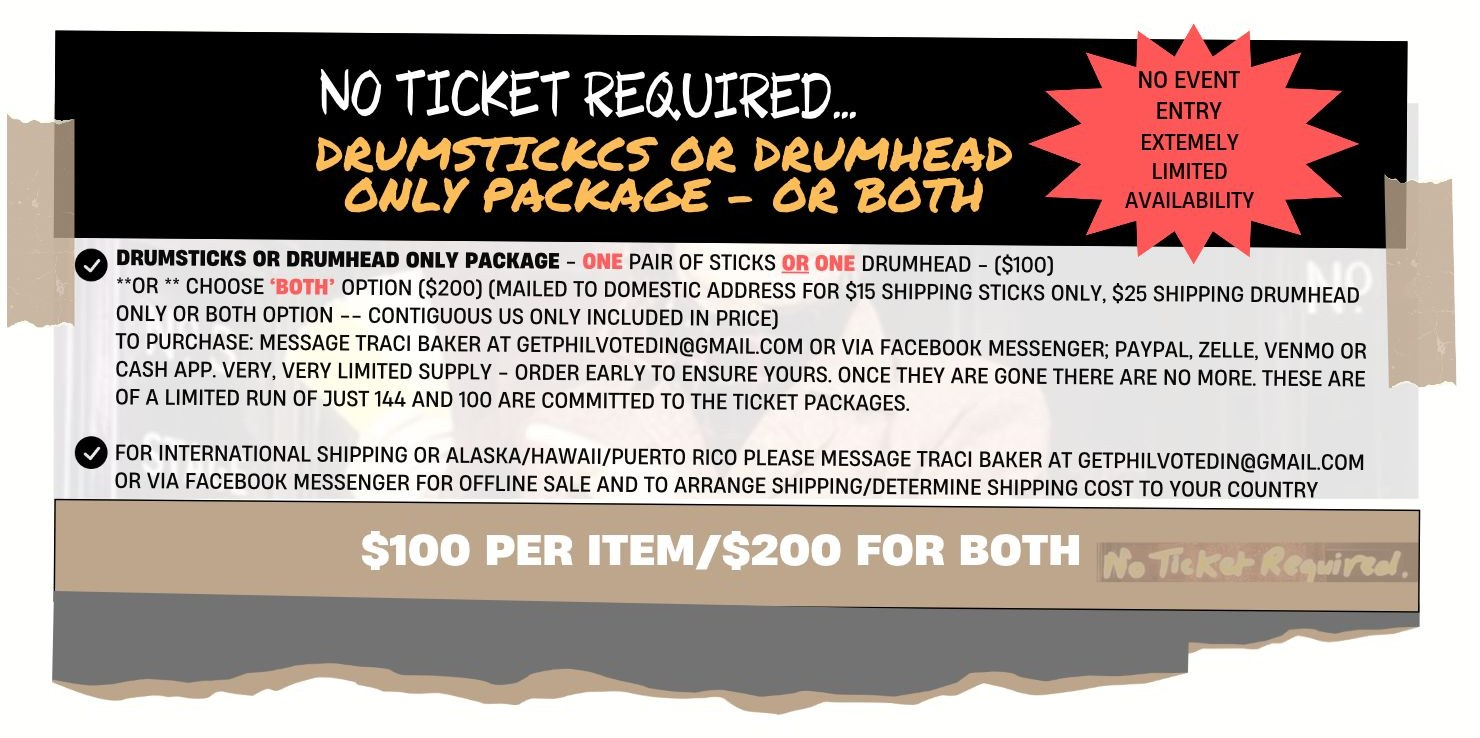
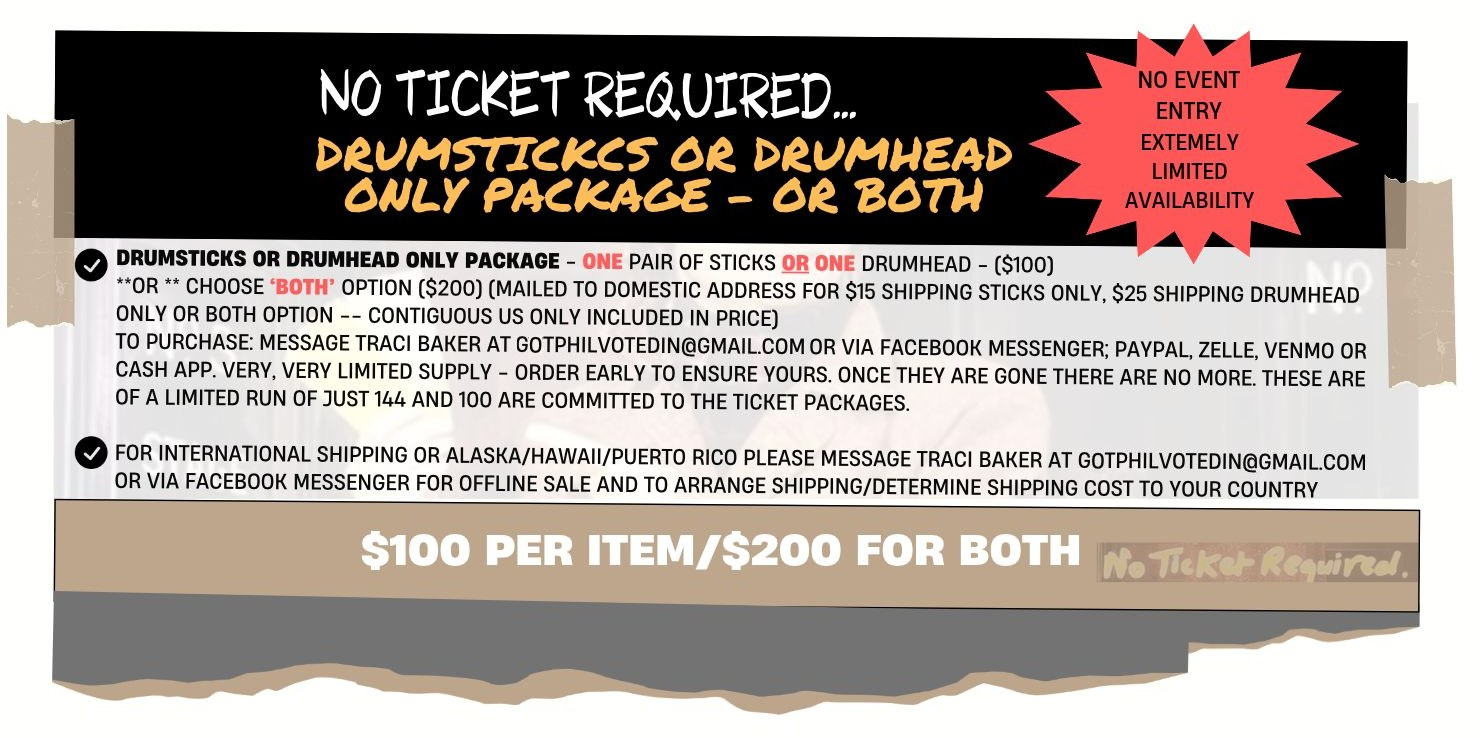
Got Phil Voted In: shipping included, fix email on collectors card
States that contiguous-US shipping is included for the No Ticket
Required package, and corrects getphilvotedin to gotphilvotedin in
both places on the site's copy of that card image.

Changed region(s): [[0.3419, 0.4363, 0.5595, 0.4986], [0.7459, 0.5921, 0.9324, 0.6545]]

diff --git a/gotphilvotedin/index.html b/gotphilvotedin/index.html
@@ -295,12 +295,12 @@ footer a:hover{color:var(--accent)}
     </button>
     <div class="body">
       <h3><small>Can&rsquo;t make it to LA? Collectors only</small><a href="mailto:gotphilvotedin@gmail.com?subject=No%20Ticket%20Required%20order%20%E2%80%94%20%23gotphilvotedin">No Ticket Required&hellip;</a></h3>
-      <div class="price"><b>$100</b><span>per item &middot; $200 for both</span></div>
+      <div class="price"><b>$100</b><span>per item &middot; $200 for both &middot; US shipping included</span></div>
       <ul class="perks">
         <li>One pair of limited-edition Promark Phil Collins signature drumsticks <b>or</b> one limited-edition Remo 14&Prime; drumhead &mdash; <b>$100</b></li>
         <li>Choose <b>both</b> for <b>$200</b></li>
         <li>Numbered run of just 144, with 100 already committed to the ticket packages</li>
-        <li>Mailed to your address in the contiguous US</li>
+        <li><b>Shipping included</b> to anywhere in the contiguous US</li>
         <li>International, Alaska, Hawaii or Puerto Rico: email Traci to arrange shipping</li>
         <li>Pay by PayPal, Zelle, Venmo or Cash App</li>
       </ul>
